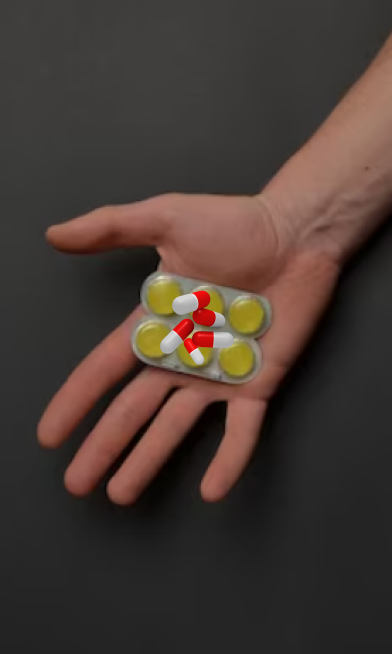
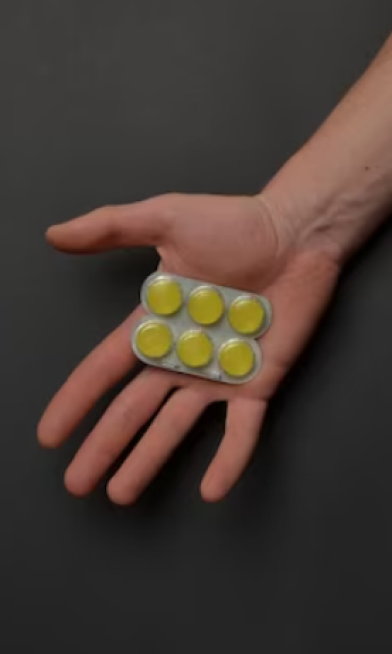
Feat: Simul - handing

Changed region(s): [[0.398, 0.4281, 0.6122, 0.581]]

diff --git a/Project/Front-end/src/components/SimulationForm/StoryForm/HandForm.css b/Project/Front-end/src/components/SimulationForm/StoryForm/HandForm.css
@@ -1,104 +1,69 @@
-.div {
-    position: relative;
-    letter-spacing: 0.1px;
-    line-height: 20px;
-    font-weight: 500;
-  }
-  .m324wifi-icon {
-    position: relative;
-    width: 24px;
-    height: 24px;
-    overflow: hidden;
-    flex-shrink: 0;
-  }
-  .icons,
-  .status-bar {
-    display: flex;
-    flex-direction: row;
-    align-items: flex-start;
-    justify-content: flex-start;
-  }
-  .status-bar {
-    align-self: stretch;
-    padding: 14px 24px;
-    align-items: center;
-    justify-content: space-between;
-  }
-  .m324menu-icon {
-    position: relative;
-    width: 24px;
-    height: 24px;
-    overflow: hidden;
-    flex-shrink: 0;
-    cursor: pointer;
-  }
-  .httpslottiefilescomanimat-icon {
-    position: absolute;
-    height: 100%;
-    width: 100%;
-    top: 0;
-    right: 0;
-    bottom: 0;
-    left: 0;
-    max-width: 100%;
-    overflow: hidden;
-    max-height: 100%;
-    object-fit: cover;
-  }
-  .group-child {
-    position: absolute;
-    top: 96.13px;
-    left: 28.52px;
-    width: 27.5px;
-    height: 70.96px;
-  }
-  .httpslottiefilescomanimat-icon1 {
-    position: absolute;
-    top: 0;
-    left: 0;
-    width: 81.48px;
-    height: 81.51px;
-    object-fit: cover;
-  }
-  .div2 {
-    position: absolute;
-    top: 117.49px;
-    left: 71.08px;
-    letter-spacing: 0.1px;
-    line-height: 30px;
-    font-weight: 600;
-    display: inline-block;
-    width: 135.89px;
-    height: 31.19px;
-  }
-  .group-parent {
-    position: absolute;
-    top: 12.48px;
-    left: 132.76px;
-    width: 206.98px;
-    height: 167.09px;
-  }
-  .httpslottiefilescomanimat-parent {
-    align-self: stretch;
-    flex: 1;
-    position: relative;
-    text-align: center;
-    font-size: 12px;
-  }
-  .android-82 {
-    position: relative;
-    border-radius: 22px;
-    background-color: #000;
-    width: 100%;
-    height: 758px;
-    overflow: hidden;
-    display: flex;
-    flex-direction: column;
-    align-items: flex-start;
-    justify-content: flex-start;
-    text-align: left;
-    font-size: 14px;
-    color: #fff;
-    font-family: Roboto;
-  }
-  
+.handbackimg {
+  position: absolute;
+  height: 100%;
+  width: 100%;
+  top: 0;
+  right: 0;
+  bottom: 0;
+  left: 0;
+  max-width: 100%;
+  overflow: hidden;
+  max-height: 100%;
+  object-fit: cover;
+}
+.hand-direc {
+  position: absolute;
+  top: 96.13px;
+  left: 28.52px;
+  width: 27.5px;
+  height: 70.96px;
+}
+.drug {
+  position: absolute;
+  top: 0;
+  left: 0;
+  width: 81.48px;
+  height: 81.51px;
+  object-fit: cover;
+}
+.drag {
+  position: absolute;
+  top: 117.49px;
+  left: 71.08px;
+  letter-spacing: 0.1px;
+  line-height: 30px;
+  font-weight: 600;
+  display: inline-block;
+  width: 135.89px;
+  height: 31.19px;
+}
+.hand-group {
+  position: absolute;
+  left: 40%;
+  top: 120px;
+  width: 206.98px;
+  height: 167.09px;
+}
+.hand-parent {
+  align-self: stretch;
+  flex: 1;
+  position: relative;
+  text-align: center;
+  font-size: 12px;
+}
+.hand-form {
+  position: relative;
+  border-radius: 22px;
+  background-color: #000;
+  width: 100%;
+  height: 758px;
+  overflow: hidden;
+  display: flex;
+  flex-direction: column;
+  align-items: flex-start;
+  justify-content: flex-start;
+  text-align: left;
+  font-size: 14px;
+  color: #fff;
+  font-family: Roboto;
+}

diff --git a/Project/Front-end/src/components/SimulationForm/StoryForm/VideoForm.js b/Project/Front-end/src/components/SimulationForm/StoryForm/VideoForm.js
@@ -2,6 +2,7 @@ import React, { useState, useEffect } from "react";
 import axios from "axios";
 import SelectTxt from "./SelectTxt";
 import MonoForm from "./MonoForm";
+import HandForm from "./HandForm";
 import NextBtn from "../NextBtn";
 import "./VideoForm.css";
 
@@ -36,12 +37,10 @@ const VideoForm = ({ selectedIndex }) => {
       const video = videoRef;
       const newSource = simulData[currentStep].simulVideoUrl;
 
-      // 비디오를 중지한 후에 바꾸어야 합니다.
       video.pause();
       video.src = newSource;
       video.load();
 
-      // 비디오가 준비되면 자동으로 재생합니다.
       video.onloadeddata = () => {
         video.play();
       };
@@ -60,7 +59,11 @@ const VideoForm = ({ selectedIndex }) => {
                     ref={(ref) => setVideoRef(ref)}
                     autoPlay
                     loop
-                    style={{ objectFit: "cover", width: "100%", height: "100%" }}
+                    style={{
+                      objectFit: "cover",
+                      width: "100%",
+                      height: "100%",
+                    }}
                   >
                     <source
                       src={simulData[currentStep].simulVideoUrl}
@@ -86,8 +89,9 @@ const VideoForm = ({ selectedIndex }) => {
                 />
               )}
               {simulData[currentStep].simulContentType === 3 && (
-                <MonoForm text={simulData[currentStep].simulText} />
+                <MonoForm text={simulData[currentStep].simulText} onNext={handleNextClick} />
               )}
+              {simulData[currentStep].simulContentType === 5 && <HandForm onNext={handleNextClick} />}
             </>
           )}
         </>

diff --git a/Project/Front-end/src/components/SimulationForm/StoryForm/HandForm.js b/Project/Front-end/src/components/SimulationForm/StoryForm/HandForm.js
@@ -1,21 +1,38 @@
+import React, { useState } from "react";
+import handback2 from "../../../assets/images/handback2.png";
 import handback from "../../../assets/images/hand-back.png";
 import handdirec from "../../../assets/images/handform-direc.svg";
 import drug from "../../../assets/images/drug.png";
 
 import "./HandForm.css";
-const HandForm = () => {
+
+const HandForm = ({ onNext }) => {
+  const [handbackImg, setHandbackImg] = useState(handback);
+
+  const handleDrag = (event) => {
+    console.log("시작")
+    const offsetY = event.clientY;
+    if (offsetY >= 50) {
+      setHandbackImg(handback2);
+    } else {
+      setHandbackImg(handback);
+    }
+  };
+
   return (
-    <div className="android-82">
-      <div className="httpslottiefilescomanimat-parent">
-        <img className="httpslottiefilescomanimat-icon" alt="" src={handback} />
-        <div className="group-parent">
-          <img className="group-child" alt="" src="/group-64.svg" />
+    <div className="hand-form">
+      <div className="hand-parent">
+        <img className="handbackimg" alt="" src={handbackImg} />
+        <div className="hand-group">
+          <img className="hand-direc" alt="" src={handdirec} />
           <img
-            className="httpslottiefilescomanimat-icon1"
+            className="drug"
             alt=""
-            src="/httpslottiefilescomanimationsshieldupuejjv2msnp1@2x.png"
+            src={drug}
+            draggable="true"
+            onDrag={handleDrag}
           />
-          <div className="div2">드래그하여 내려주세요 !</div>
+          <div className="drag">드래그하여 내려주세요 !</div>
         </div>
       </div>
     </div>

diff --git a/Project/Front-end/src/components/SimulationForm/StoryForm/MonoForm.js b/Project/Front-end/src/components/SimulationForm/StoryForm/MonoForm.js
@@ -1,9 +1,9 @@
 import "./MonoForm.css";
 import NextBtn from "../NextBtn";
-const MonoForm = () => {
+const MonoForm = ({onNext}) => {
   return (
     <div className="mono">
-      <NextBtn />
+      <NextBtn onClick={onNext}/>
       <div className="mono-wrapper">
         <div className="mono-txt">
           <p className="p">너무 힘든데...</p>
